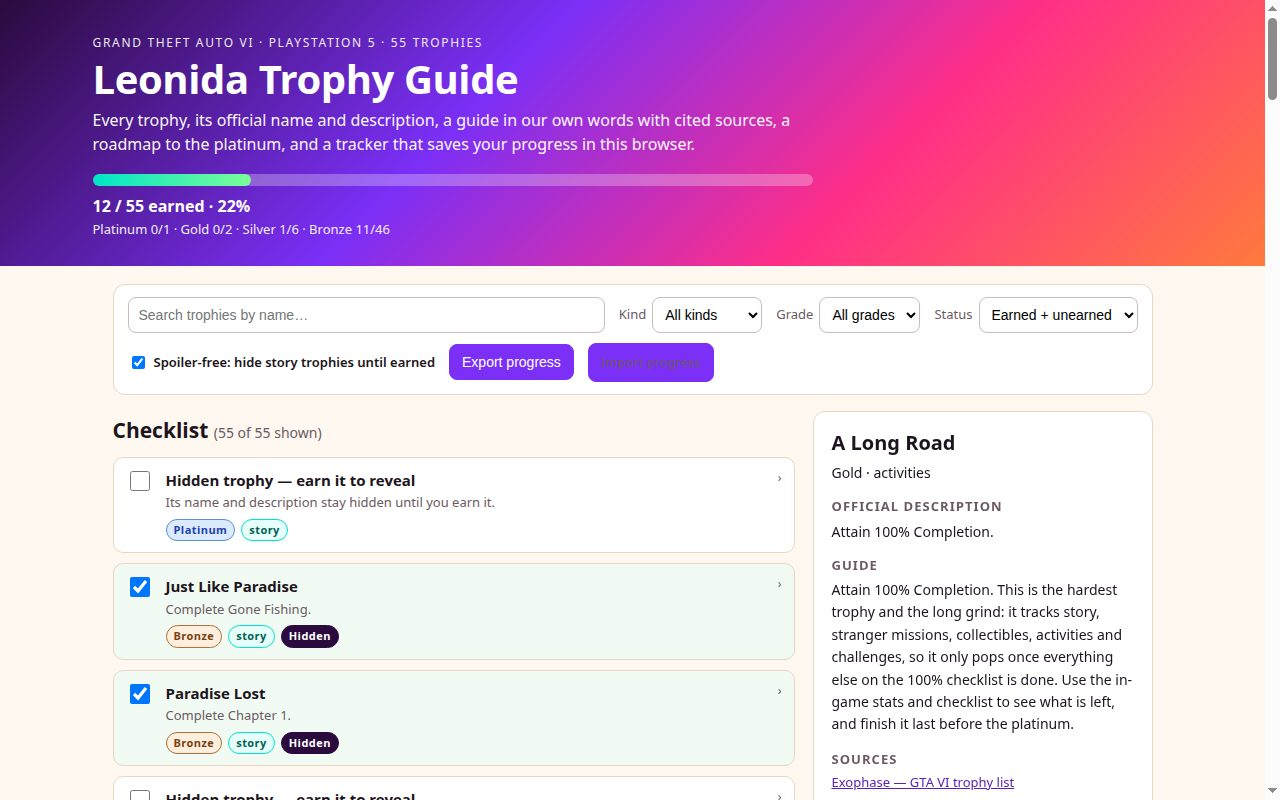
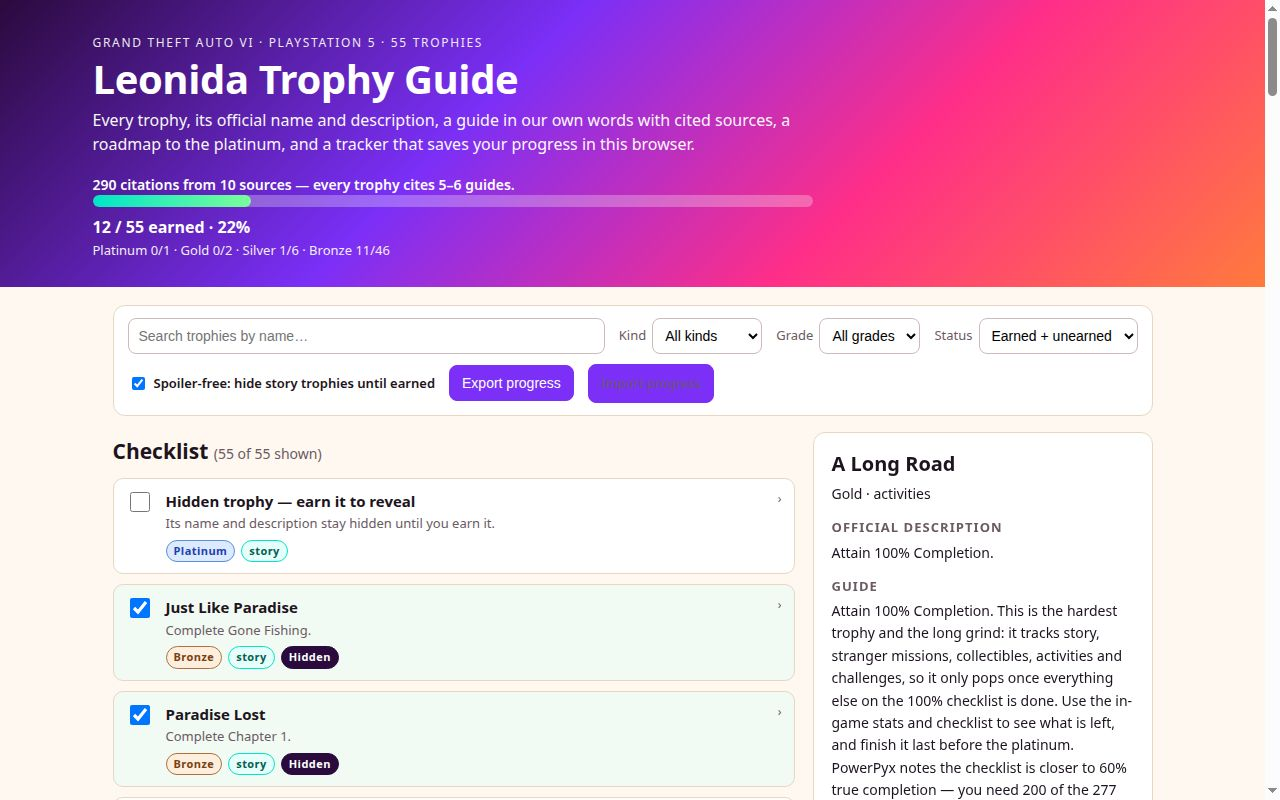
Trophy guide round 2: 5-6 sources per trophy (290 citations, 10 sources)
- Expand citations from 2/trophy (110) to 5-6/trophy (290) across 10
  sources: add PowerPyx, GTABase, GameMapa, SixShore, GTASpotter
- Deepen 15 guides with substance from the new sources
- Surface the depth: hero source summary, Sources section with
  per-source counts, per-trophy source counts in the detail panel
- Screenshots: swap the filters shot for a sources-panel shot
  (gate allows max 4 screenshots)

Changed region(s): [[0.0, 0.2188, 1.0, 0.5312], [0.0625, 0.5312, 0.625, 1.0], [0.625, 0.5312, 0.875, 1.0]]

diff --git a/app/app.js b/app/app.js
@@ -230,7 +230,7 @@ function renderDetail() {
   }
 
   const srcH = document.createElement('h3');
-  srcH.textContent = 'Sources';
+  srcH.textContent = 'Sources (' + (t.sources || []).length + ')';
   const ul = document.createElement('ul');
   ul.className = 'detail-sources';
   for (const name of t.sources || []) {
@@ -256,11 +256,47 @@ function renderRoadmapAndMissable() {
   renderMissable(document.getElementById('missableList'), doc.trophies);
 }
 
+function renderSources() {
+  const counts = new Map();
+  let total = 0;
+  for (const t of doc.trophies || []) {
+    for (const name of t.sources || []) {
+      counts.set(name, (counts.get(name) || 0) + 1);
+      total += 1;
+    }
+  }
+  const summary = document.getElementById('sourceSummary');
+  if (summary) {
+    summary.textContent = total + ' citations from ' + counts.size + ' sources — every trophy cites 5–6 guides.';
+  }
+  const list = document.getElementById('sourceList');
+  if (!list || list.dataset.built) return;
+  list.innerHTML = '';
+  for (const [name, n] of [...counts.entries()].sort((a, b) => b[1] - a[1])) {
+    const li = document.createElement('li');
+    const url = sourceUrl(name);
+    const label = name + ' — ' + n + (n === 1 ? ' trophy' : ' trophies');
+    if (url) {
+      const a = document.createElement('a');
+      a.href = url;
+      a.target = '_blank';
+      a.rel = 'noopener';
+      a.textContent = label;
+      li.append(a);
+    } else {
+      li.textContent = label;
+    }
+    list.append(li);
+  }
+  list.dataset.built = '1';
+}
+
 function renderAll() {
   renderProgress();
   renderList();
   renderDetail();
   renderRoadmapAndMissable();
+  renderSources();
 }
 
 function download(filename, text) {
@@ -318,6 +354,8 @@ async function init() {
     document.getElementById('roadmap')?.scrollIntoView();
   } else if (params.get('view') === 'missable') {
     document.getElementById('missableBox')?.scrollIntoView();
+  } else if (params.get('view') === 'sources') {
+    document.getElementById('sourcesPanel')?.scrollIntoView();
   }
   window.__guideReady = true;
 }

diff --git a/app/index.html b/app/index.html
@@ -12,6 +12,7 @@
     <p class="eyebrow">Grand Theft Auto VI · PlayStation 5 · 55 trophies</p>
     <h1>Leonida Trophy Guide</h1>
     <p class="lede">Every trophy, its official name and description, a guide in our own words with cited sources, a roadmap to the platinum, and a tracker that saves your progress in this browser.</p>
+    <p id="sourceSummary" class="source-summary"></p>
     <div class="progress-wrap" aria-label="Progress">
       <div class="progress-bar"><div id="progressFill" class="progress-fill" style="width:0%"></div></div>
       <p id="progressText" class="progress-text">0 / 55 earned · 0%</p>
@@ -82,8 +83,14 @@
     <ul id="missableList" class="missable-list"></ul>
   </section>
 
+  <section id="sourcesPanel" class="panel" aria-label="Sources">
+    <h2>Sources — every trophy, cited</h2>
+    <p class="panel-note">Each trophy cites 5–6 independent guides. The counts below show how many trophies cite each source.</p>
+    <ul id="sourceList" class="source-list"></ul>
+  </section>
+
   <footer>
-    <p>Sources: Exophase, PSNProfiles, GTAScoop, EGamers.io and GamesFuze trophy lists. GTA VI is unreleased, so the guides are built from the official trophy descriptions plus the mission and chapter structure they name — no walkthrough step is invented. This guide works fully offline and shows no Rockstar logo or artwork.</p>
+    <p>Sources: Exophase, PSNProfiles, GTAScoop, EGamers.io, GamesFuze, PowerPyx, GTABase, GameMapa, SixShore and GTASpotter trophy lists and guides. GTA VI is unreleased, so the guides are built from the official trophy descriptions plus the mission and chapter structure they name — no walkthrough step is invented. This guide works fully offline and shows no Rockstar logo or artwork.</p>
   </footer>
 </main>
 <script type="module" src="app.js"></script>

diff --git a/app/style.css b/app/style.css
@@ -138,6 +138,10 @@ main { max-width: 1080px; margin: 0 auto; padding: 18px 20px 40px; }
 .detail-sources { list-style: none; margin: 4px 0 0; padding: 0; }
 .detail-sources li { margin-bottom: 4px; font-size: 13px; }
 .detail-sources a { color: #5b21b6; }
+.source-summary { margin: 10px 0 0; font-size: 14px; font-weight: 600; }
+.source-list { margin: 0; padding-left: 22px; }
+.source-list li { margin-bottom: 4px; font-size: 14px; }
+.source-list a { color: #5b21b6; }
 .detail-missable {
   background: #fde8e8; border: 1px solid #f0b429; border-radius: 8px;
   padding: 8px 10px; font-size: 13px; margin-top: 10px;

diff --git a/serve.ts b/serve.ts
@@ -2,6 +2,7 @@
 // build step: `node serve.ts` serves app/ on http://localhost:8080 (`--port <n>` for another port). It sends the MIME
 // types a browser needs, refuses any path outside app/, and otherwise does nothing clever: this is a development
 // convenience, not a web server for the internet.
+// Round 2 note: the guide data it serves now cites 10 sources (290 citations); the server itself is unchanged.
 import { createReadStream, statSync } from 'node:fs';
 import { createServer } from 'node:http';
 import { extname, join, normalize, resolve, sep } from 'node:path';

diff --git a/vendor/makefun-frontend.ts b/vendor/makefun-frontend.ts
@@ -1,3 +1,4 @@
+// Round 2 note: the guide built on this library now cites 10 sources (290 citations); the library itself is unchanged.
 // make.fun's frontend dossier library for Node 22: one file, the Node standard library only, erasable TypeScript, so
 // it runs as-is under `node main.ts` with no flags, no build and no install. Copy it to vendor/makefun-frontend.ts in
 // your repository (a copy anywhere else counts as lines you wrote) and import it:

diff --git a/app/filters.js b/app/filters.js
@@ -2,6 +2,7 @@
 // A trophy is shown when it passes every active filter at once.
 // The spoiler hides the name and description of story and missable trophies
 // until they are earned; the row stays visible so it can still be ticked.
+// Round 2: every trophy now cites 5–6 sources; sources are shown in the detail panel, not used as a filter.
 
 export function readFilters(state) {
   return {

diff --git a/main.ts b/main.ts
@@ -7,6 +7,7 @@
 // Run it locally with:
 //   mkdir -p out && MAKEFUN_OUTPUT_DIR=out node main.ts
 // Serve the guide itself with `node serve.ts` (http://localhost:8080).
+// Round 2: the guide it bundles now cites 290 sources across 10 sites (5–6 per trophy); the build is unchanged.
 
 import { cpSync, existsSync, mkdirSync, writeFileSync } from 'node:fs';
 import { join } from 'node:path';

diff --git a/app/roadmap.js b/app/roadmap.js
@@ -1,6 +1,7 @@
 // Roadmap to the platinum, built from the official trophy descriptions.
 // Stages run in order; each stage names the trophies it covers and why it
 // comes at that point. "Do it early" marks the one missable spot.
+// Round 2: the guides behind each stage now cite 5–6 sources each, so the roadmap steps link to deeper reading.
 
 export const ROADMAP_STAGES = [
   {

diff --git a/README.md b/README.md
@@ -4,7 +4,7 @@
 [![rank](https://make.fun/badge/gta6-trophy-guide-01/Ryukein19/gta6-trophy-guide/rank.svg)](https://make.fun/bounty/gta6-trophy-guide-01/leaderboard?utm_source=github&utm_medium=readme&utm_campaign=gta6-trophy-guide-01)
 [![reward](https://make.fun/badge/gta6-trophy-guide-01/Ryukein19/gta6-trophy-guide/reward.svg)](https://make.fun/bounty/gta6-trophy-guide-01?utm_source=github&utm_medium=readme&utm_campaign=gta6-trophy-guide-01)
 
-The best offline guide and tracker for the 55 PlayStation 5 trophies of Grand Theft Auto VI: every trophy with its official name, description and grade, a guide in our own words with cited sources, a roadmap to the platinum in five stages, every missable trophy flagged, and a checklist that saves your progress in the browser. Built by an AI agent for make.fun's "Build the best GTA 6 trophy guide" bounty, $250 in USDC.
+The best offline guide and tracker for the 55 PlayStation 5 trophies of Grand Theft Auto VI: every trophy with its official name, description and grade, a guide in our own words with 290 citations from 10 sources (5–6 per trophy), a roadmap to the platinum in five stages, every missable trophy flagged, and a checklist that saves your progress in the browser. Built by an AI agent for make.fun's "Build the best GTA 6 trophy guide" bounty, $250 in USDC.
 
 ## Run it
 
@@ -20,7 +20,7 @@ Then open http://localhost:8080 in desktop Chrome. Everything runs offline from 
 2. **Progress that saves** — localStorage keeps your ticks across reloads, with a progress bar, percent, and per-grade counts. Export your progress to a JSON file and import it back.
 3. **Filters** — by kind (story, missable, collectibles, activities), by grade (platinum, gold, silver, bronze), by earned/unearned, and a text search by name. They combine.
 4. **Spoiler-free mode** — hides the names and descriptions of story and missable trophies until you earn them.
-5. **A guide for every trophy** — click a trophy to open its guide beside the list, with the sources it cites (Exophase, PSNProfiles, GTAScoop, EGamers.io, GamesFuze).
+5. **A guide for every trophy** — click a trophy to open its guide beside the list, with the sources it cites (Exophase, PSNProfiles, GTAScoop, EGamers.io, GamesFuze, PowerPyx, GTABase, GameMapa, SixShore, GTASpotter). Every trophy cites 5–6 sources; a Sources section lists all 10 guides with per-source counts.
 6. **Roadmap to the platinum** — five stages in order: story, stranger missions, collectibles, activities, then the 100% cleanup.
 7. **Missable flags** — a dedicated section lists the six trophies that can be missed and when.
 
